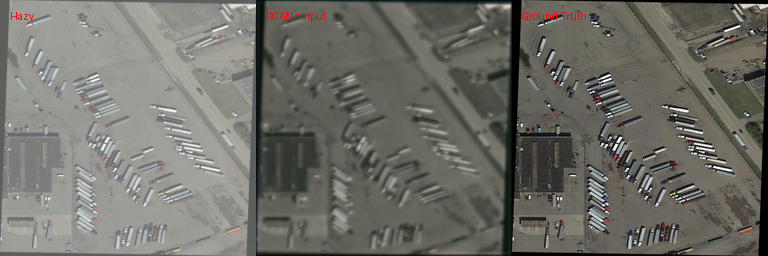
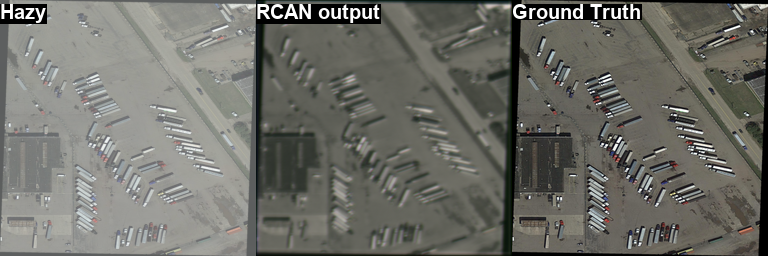
update font and text background

Changed region(s): [[0.6562, 0.0, 0.8438, 0.0938], [0.3125, 0.0, 0.5, 0.0938], [0.0, 0.0, 0.0625, 0.0938]]

diff --git a/trainers/trainer_rcan.py b/trainers/trainer_rcan.py
@@ -70,8 +70,10 @@ class RCANTrainer(Trainer):
         
         def label_image(image, label, font_size=20):
             draw = ImageDraw.Draw(image)
-            font = ImageFont.load_default()
-            draw.text((10, 10), label, font=font, fill=(255, 0, 0))
+            font = ImageFont.truetype("arialbd.ttf", 20)
+            bbox = draw.textbbox((0, 0), label, font=font)
+            draw.rectangle(bbox, fill="black")
+            draw.text((0, 0), label, font=font, fill='white')
             return image
 
         os.makedirs(save_dir, exist_ok=True)
@@ -84,11 +86,6 @@ class RCANTrainer(Trainer):
                 hazy = hazy.to(device)
                 output = model(hazy)
                 output = torch.clamp(output, 0, 1)
-
-                # print("H:",hazy.shape)
-                # print("O:",output.shape)
-                # print("C:",clear.shape)
-
 
                 for i in range(num_samples):
                     if count >= num_samples:
